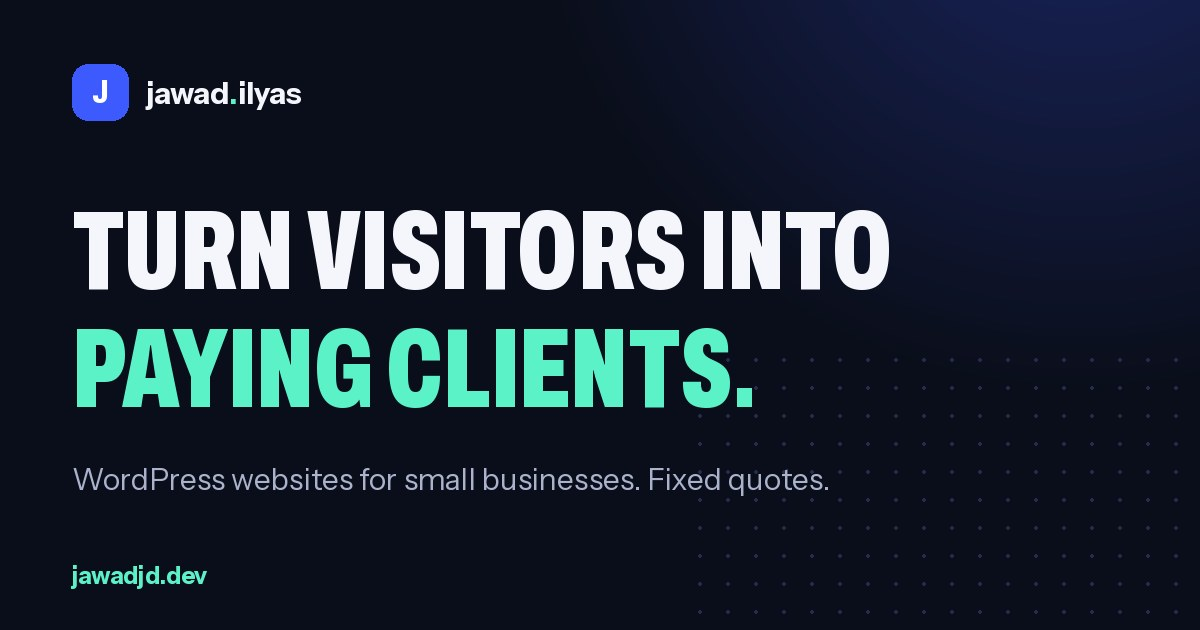
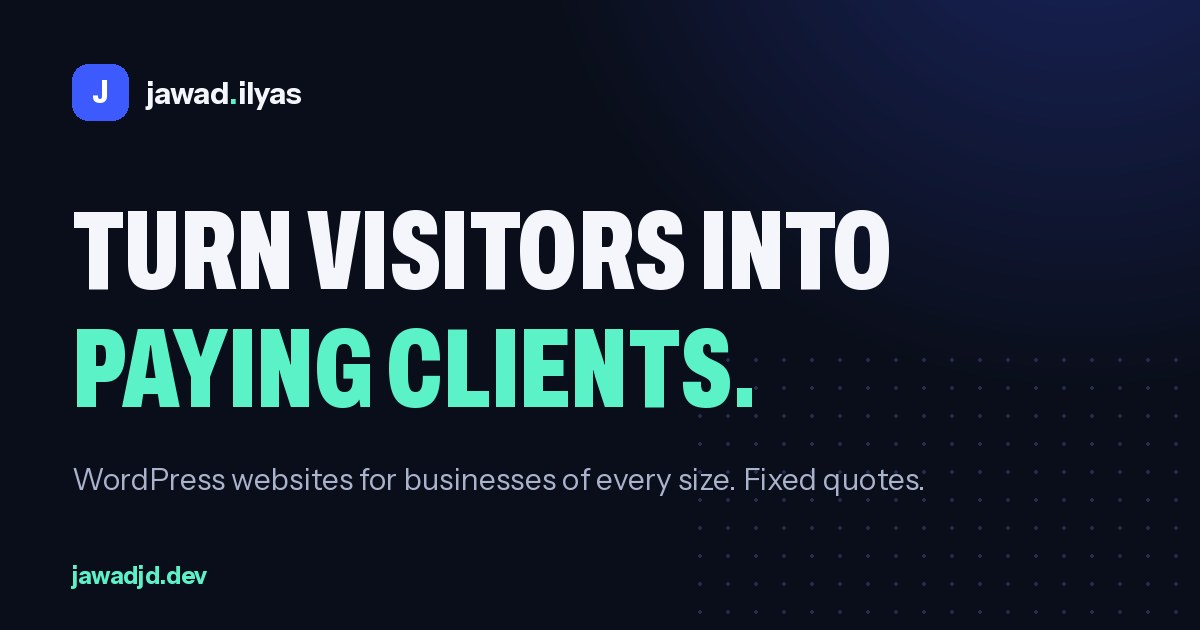
Copy: speak to businesses of every size, not only small businesses

Changed region(s): [[0.3392, 0.7238, 0.7708, 0.7841]]

diff --git a/style.css b/style.css
@@ -7,7 +7,7 @@ Description: A fast, SEO-ready block theme for a WordPress developer studio. Mid
 Requires at least: 6.6
 Tested up to: 7.1
 Requires PHP: 8.0
-Version: 1.2.0
+Version: 1.2.1
 License: GNU General Public License v2 or later
 License URI: https://www.gnu.org/licenses/gpl-2.0.html
 Text Domain: jawad

diff --git a/inc/options.php b/inc/options.php
@@ -24,7 +24,7 @@ function jd_option_fields() {
 				'availability_text' => array( __( 'Availability text', 'jawad' ), 'text', 'Taking 2 new projects this month', __( 'Keep it true and update it monthly.', 'jawad' ) ),
 				'badge_2'           => array( __( 'Hero badge 2', 'jawad' ), 'text', 'Top Rated on Upwork', __( 'Leave empty to hide.', 'jawad' ) ),
 				'badge_3'           => array( __( 'Hero badge 3', 'jawad' ), 'text', 'Fixed-price quotes', __( 'Leave empty to hide.', 'jawad' ) ),
-				'footer_blurb'      => array( __( 'Footer description', 'jawad' ), 'textarea', 'WordPress developer for small businesses. Fast sites, clear offers, and replies inside your working day.', '' ),
+				'footer_blurb'      => array( __( 'Footer description', 'jawad' ), 'textarea', 'WordPress developer for startups, growing businesses and established brands. Fast sites, clear offers, and replies inside your working day.', '' ),
 			),
 		),
 		'contact' => array(
@@ -79,7 +79,7 @@ function jd_option_fields() {
 				'seo_on'          => array( __( 'Built-in SEO tags', 'jawad' ), 'checkbox', 1, __( 'Meta descriptions, Open Graph, Twitter cards and JSON-LD. Switches itself off when Yoast, Rank Math, SEOPress or AIOSEO is active.', 'jawad' ) ),
 				'title_sep'       => array( __( 'Title separator', 'jawad' ), 'text', '|', '' ),
 				'home_title'      => array( __( 'Home page title', 'jawad' ), 'text', 'Jawad Ilyas | WordPress Developer for Fast, High-Converting Websites', '' ),
-				'home_desc'       => array( __( 'Home page meta description', 'jawad' ), 'textarea', 'WordPress developer who builds fast, conversion-focused WordPress and WooCommerce websites for small businesses. Fixed quotes, clear process, replies within 24 hours.', __( 'Aim for 140 to 160 characters.', 'jawad' ) ),
+				'home_desc'       => array( __( 'Home page meta description', 'jawad' ), 'textarea', 'WordPress developer who builds fast, conversion-focused WordPress and WooCommerce websites for businesses of every size. Fixed quotes, clear process, replies within 24 hours.', __( 'Aim for 140 to 160 characters.', 'jawad' ) ),
 				'default_desc'    => array( __( 'Fallback meta description', 'jawad' ), 'textarea', 'Fast, SEO-friendly WordPress websites, WooCommerce stores, speed fixes and care plans by Jawad Ilyas.', '' ),
 				'work_desc'       => array( __( 'Work archive description', 'jawad' ), 'textarea', 'Selected WordPress websites, landing pages and WooCommerce stores, with the results they produced.', '' ),
 				'services_desc'   => array( __( 'Services archive description', 'jawad' ), 'textarea', 'WordPress website design, WooCommerce stores, speed optimization and monthly care plans with fixed, upfront pricing.', '' ),

diff --git a/tools/build-patterns.py b/tools/build-patterns.py
@@ -68,7 +68,7 @@ P['proof'] = ('Proof numbers', 'jawad-sections', 'Four large count-up numbers.',
 
 P['statement'] = ('Problem statement', 'jawad-sections', 'Large statement that lights up word by word on scroll.', group(J(
     p('The problem', 'jd-label'),
-    p('Most small business websites are slow, confusing, and quietly losing leads. I build sites that load in under two seconds, explain what you do at a glance, and make the <em>next step</em> obvious.', 'jd-statement__text jd-fill')), 'jd-section jd-wrap jd-statement', 'section'))
+    p('Most business websites are slow, confusing, and quietly losing leads. I build sites that load in under two seconds, explain what you do at a glance, and make the <em>next step</em> obvious.', 'jd-statement__text jd-fill')), 'jd-section jd-wrap jd-statement', 'section'))
 
 P['services-stack'] = ('Services stack', 'jawad-sections', 'Heading with sticky stacked service cards from the Services post type.', group(J(
     h('Four jobs.<br>Done properly.', 2, 'jd-section__title'),
@@ -132,7 +132,7 @@ P['page-home'] = ('Home page', 'jawad-pages', 'Full home page layout.', J(
 P['page-about'] = ('About page', 'jawad-pages', 'About page with portrait, live clocks, principles and toolkit.', J(
     group(group(J(
         group(J(p('About', 'jd-label'), h('One developer.<br><em>No hand-offs.</em>', 1, 'jd-split'),
-                p("I'm Jawad Ilyas. I've built WordPress sites for more than ten years, mostly for small businesses that need a site to work hard without babysitting. When you hire me, the person on the call is the person writing the code.", 'jd-lead')), 'jd-about__text'),
+                p("I'm Jawad Ilyas. I've built WordPress sites for more than ten years, for everyone from startups and local service companies to established brands. Whatever the size, the goal is the same: a site that works hard without babysitting. When you hire me, the person on the call is the person writing the code.", 'jd-lead')), 'jd-about__text'),
         group(p('JI', 'jd-portrait__ini'), 'jd-portrait')), 'jd-about'), 'jd-phero jd-wrap', 'section'),
     group(block('jd/clocks'), 'jd-wrap', 'section'),
     group(J(p('What you can count on', 'jd-label'), group(J(*[group(J(h(t, 3), p(d))) for t, d in princ]), 'jd-princ')), 'jd-section jd-wrap', 'section'),

diff --git a/inc/starter-content.php b/inc/starter-content.php
@@ -101,7 +101,7 @@ function jd_import_starter() {
 
 	/* Pages ------------------------------------------------------------- */
 	$home    = jd_seed_post( array( 'post_type' => 'page', 'post_title' => 'Home', 'post_name' => 'home', 'post_content' => jd_pattern_markup( 'jawad/page-home' ), 'menu_order' => 0 ), array(), $log );
-	$about   = jd_seed_post( array( 'post_type' => 'page', 'post_title' => 'About', 'post_name' => 'about', 'post_content' => jd_pattern_markup( 'jawad/page-about' ), 'page_template' => 'page-blank', 'menu_order' => 3 ), array( '_jd_seo_desc' => 'Jawad Ilyas is a WordPress developer with more than ten years of experience building fast, conversion-focused sites for small businesses.' ), $log );
+	$about   = jd_seed_post( array( 'post_type' => 'page', 'post_title' => 'About', 'post_name' => 'about', 'post_content' => jd_pattern_markup( 'jawad/page-about' ), 'page_template' => 'page-blank', 'menu_order' => 3 ), array( '_jd_seo_desc' => 'Jawad Ilyas is a WordPress developer with more than ten years of experience building fast, conversion-focused sites for businesses of every size.' ), $log );
 	$contact = jd_seed_post( array( 'post_type' => 'page', 'post_title' => 'Contact', 'post_name' => 'contact', 'post_content' => jd_pattern_markup( 'jawad/page-contact' ), 'page_template' => 'page-blank', 'menu_order' => 5 ), array( '_jd_seo_desc' => 'Tell me about your WordPress project. You get a reply within 24 hours and a written fixed quote after a short call.' ), $log );
 	$journal = jd_seed_post( array( 'post_type' => 'page', 'post_title' => 'Journal', 'post_name' => 'journal', 'post_content' => '', 'menu_order' => 4 ), array(), $log );
 

diff --git a/patterns/page-about.php b/patterns/page-about.php
@@ -22,7 +22,7 @@
 <!-- /wp:heading -->
 
 <!-- wp:paragraph {"className":"jd-lead"} -->
-<p class="jd-lead">I'm Jawad Ilyas. I've built WordPress sites for more than ten years, mostly for small businesses that need a site to work hard without babysitting. When you hire me, the person on the call is the person writing the code.</p>
+<p class="jd-lead">I'm Jawad Ilyas. I've built WordPress sites for more than ten years, for everyone from startups and local service companies to established brands. Whatever the size, the goal is the same: a site that works hard without babysitting. When you hire me, the person on the call is the person writing the code.</p>
 <!-- /wp:paragraph --></div>
 <!-- /wp:group -->
 

diff --git a/patterns/statement.php b/patterns/statement.php
@@ -16,6 +16,6 @@
 <!-- /wp:paragraph -->
 
 <!-- wp:paragraph {"className":"jd-statement__text jd-fill"} -->
-<p class="jd-statement__text jd-fill">Most small business websites are slow, confusing, and quietly losing leads. I build sites that load in under two seconds, explain what you do at a glance, and make the <em>next step</em> obvious.</p>
+<p class="jd-statement__text jd-fill">Most business websites are slow, confusing, and quietly losing leads. I build sites that load in under two seconds, explain what you do at a glance, and make the <em>next step</em> obvious.</p>
 <!-- /wp:paragraph --></section>
 <!-- /wp:group -->

diff --git a/functions.php b/functions.php
@@ -7,7 +7,7 @@
 
 defined( 'ABSPATH' ) || exit;
 
-define( 'JD_VERSION', '1.2.0' );
+define( 'JD_VERSION', '1.2.1' );
 define( 'JD_DIR', get_template_directory() );
 define( 'JD_URI', get_template_directory_uri() );
 
